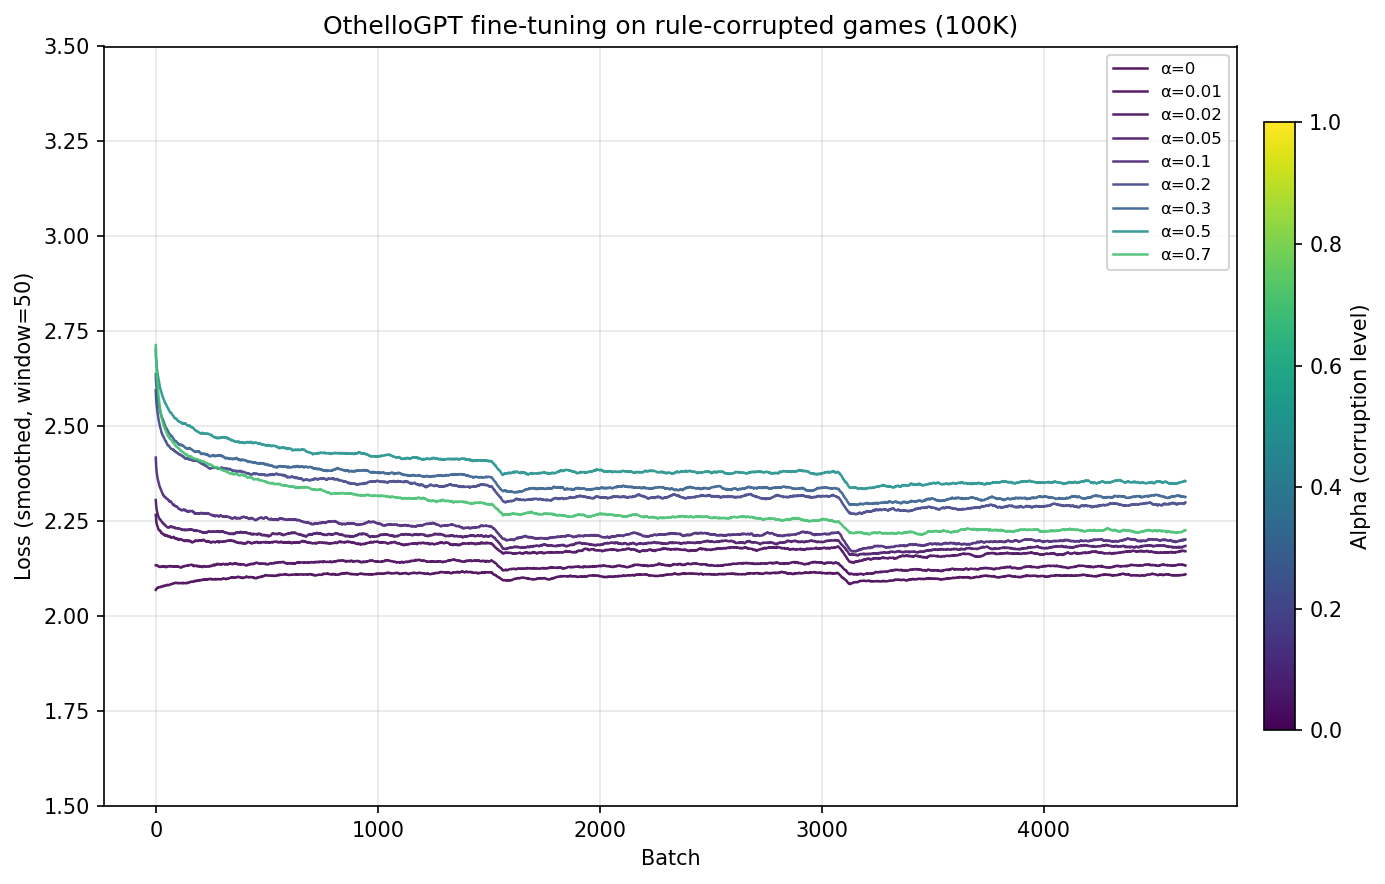
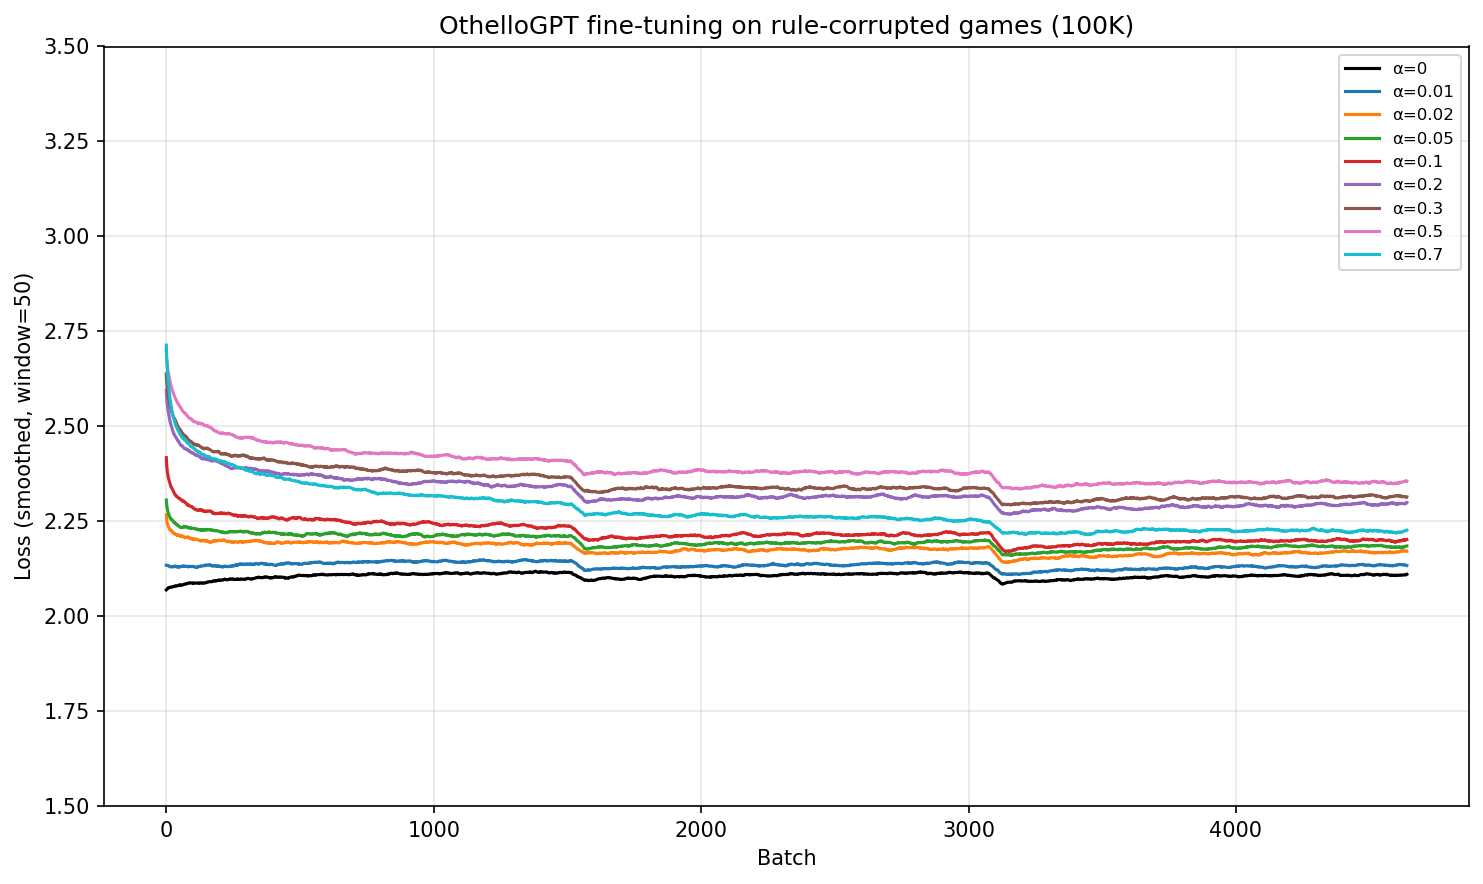
Add eval metrics: top-1 accuracy, mean rank, test-set loss
Evaluate on 10% held-out test split every 200 batches.
No more per-batch training loss extrapolation.

diff --git a/finetune_corruption.py b/finetune_corruption.py
@@ -1,5 +1,8 @@
 """
-Fine-tune OthelloGPT on corruption-generated games and record per-batch losses.
+Fine-tune OthelloGPT on corruption-generated games and record metrics.
+
+Records per-eval-step: loss, top-1 accuracy, mean rank of correct move.
+Eval is on a held-out 10% test split, run every --eval-every batches.
 
 Usage:
   python finetune_corruption.py --games-dir experiments/corruption/games/type1_alpha010 \
@@ -25,6 +28,50 @@ from mingpt.model import GPT, GPTConfig
 from mingpt.dataset import CharDataset
 
 
+@torch.no_grad()
+def evaluate(model, loader, device):
+    """Evaluate on test set. Returns loss, top-1 accuracy, mean rank."""
+    model.eval()
+    total_loss = 0.0
+    total_correct = 0
+    total_rank_sum = 0.0
+    total_tokens = 0
+
+    for x, y in loader:
+        x = x.to(device)
+        y = y.to(device)
+
+        logits, loss = model(x, y)
+        loss = loss.mean()
+
+        # logits: (B, T, vocab), y: (B, T)
+        B, T, V = logits.shape
+
+        # Flatten for metrics
+        logits_flat = logits.reshape(-1, V)  # (B*T, V)
+        y_flat = y.reshape(-1)              # (B*T,)
+
+        # Top-1 accuracy
+        preds = logits_flat.argmax(dim=-1)
+        total_correct += (preds == y_flat).sum().item()
+
+        # Mean rank: rank of correct token (1-indexed)
+        # Sort descending, find position of correct answer
+        sorted_indices = logits_flat.argsort(dim=-1, descending=True)
+        ranks = (sorted_indices == y_flat.unsqueeze(-1)).nonzero(as_tuple=True)[1] + 1
+        total_rank_sum += ranks.float().sum().item()
+
+        total_loss += loss.item() * (B * T)
+        total_tokens += B * T
+
+    model.train()
+
+    avg_loss = total_loss / total_tokens
+    accuracy = total_correct / total_tokens
+    mean_rank = total_rank_sum / total_tokens
+    return avg_loss, accuracy, mean_rank
+
+
 def main():
     parser = argparse.ArgumentParser()
     parser.add_argument("--games-dir", type=str, required=True)
@@ -34,6 +81,7 @@ def main():
     parser.add_argument("--epochs", type=int, default=3)
     parser.add_argument("--batch-size", type=int, default=64)
     parser.add_argument("--lr", type=float, default=3e-4)
+    parser.add_argument("--eval-every", type=int, default=200)
     parser.add_argument("--save-ckpt", action="store_true")
     args = parser.parse_args()
 
@@ -53,8 +101,16 @@ def main():
     games = [g for g in games if len(g) >= 5]
     print(f"After filtering: {len(games)} games with >= 5 moves")
 
-    # Create dataset
-    train_dataset = CharDataset(games)
+    # 90/10 train/test split
+    n_test = len(games) // 10
+    n_train = len(games) - n_test
+    train_games = games[:n_train]
+    test_games = games[n_train:]
+    print(f"Train: {len(train_games)}, Test: {len(test_games)}")
+
+    # Create datasets
+    train_dataset = CharDataset(train_games)
+    test_dataset = CharDataset(test_games)
     print(f"Vocab size: {train_dataset.vocab_size}, Block size: {train_dataset.block_size}")
 
     # Build model
@@ -80,24 +136,39 @@ def main():
         )
     )
 
-    # DataLoader
-    loader = DataLoader(
+    # DataLoaders
+    train_loader = DataLoader(
         train_dataset,
         shuffle=True,
         pin_memory=True,
         batch_size=args.batch_size,
         num_workers=4,
     )
+    test_loader = DataLoader(
+        test_dataset,
+        shuffle=False,
+        pin_memory=True,
+        batch_size=args.batch_size,
+        num_workers=4,
+    )
 
-    # Training loop — record per-batch losses
-    all_losses = []
+    # Eval before any training
+    print("Evaluating before training...", flush=True)
+    eval_loss, eval_acc, eval_rank = evaluate(model, test_loader, device)
+    print(f"  Initial: loss={eval_loss:.4f}, acc={eval_acc:.4f}, mean_rank={eval_rank:.2f}")
+
+    eval_steps = [0]
+    eval_losses = [eval_loss]
+    eval_accs = [eval_acc]
+    eval_ranks = [eval_rank]
+
+    # Training loop
     batch_count = 0
     t0 = time.time()
 
     for epoch in range(args.epochs):
         model.train()
-        epoch_losses = []
-        for it, (x, y) in enumerate(loader):
+        for it, (x, y) in enumerate(train_loader):
             x = x.to(device)
             y = y.to(device)
 
@@ -109,37 +180,54 @@ def main():
             torch.nn.utils.clip_grad_norm_(model.parameters(), 1.0)
             optimizer.step()
 
-            loss_val = loss.item()
-            epoch_losses.append(loss_val)
-            all_losses.append(loss_val)
             batch_count += 1
 
-            if it % 500 == 0:
-                elapsed = time.time() - t0
-                print(f"  Epoch {epoch+1}/{args.epochs}, batch {it}/{len(loader)}, "
-                      f"loss={loss_val:.4f}, elapsed={elapsed:.0f}s")
+            if batch_count % args.eval_every == 0:
+                eval_loss, eval_acc, eval_rank = evaluate(model, test_loader, device)
+                eval_steps.append(batch_count)
+                eval_losses.append(eval_loss)
+                eval_accs.append(eval_acc)
+                eval_ranks.append(eval_rank)
 
-        mean_loss = np.mean(epoch_losses)
-        print(f"Epoch {epoch+1}: mean_loss={mean_loss:.4f} ({len(epoch_losses)} batches)")
+                elapsed = time.time() - t0
+                print(f"  Epoch {epoch+1}, batch {it+1}/{len(train_loader)}, "
+                      f"step={batch_count}: loss={eval_loss:.4f}, acc={eval_acc:.4f}, "
+                      f"rank={eval_rank:.2f}, elapsed={elapsed:.0f}s", flush=True)
+
+        # End-of-epoch eval
+        eval_loss, eval_acc, eval_rank = evaluate(model, test_loader, device)
+        eval_steps.append(batch_count)
+        eval_losses.append(eval_loss)
+        eval_accs.append(eval_acc)
+        eval_ranks.append(eval_rank)
+
+        elapsed = time.time() - t0
+        print(f"Epoch {epoch+1}: loss={eval_loss:.4f}, acc={eval_acc:.4f}, "
+              f"rank={eval_rank:.2f} ({batch_count} batches, {elapsed:.0f}s)")
 
     elapsed = time.time() - t0
     print(f"\nDone: {batch_count} total batches in {elapsed:.0f}s")
-    print(f"Final loss: {np.mean(all_losses[-100:]):.4f} (last 100 batches)")
+    print(f"Final: loss={eval_losses[-1]:.4f}, acc={eval_accs[-1]:.4f}, rank={eval_ranks[-1]:.2f}")
 
-    # Save losses
-    loss_path = os.path.join(args.output_dir, f"{args.label}.json")
-    with open(loss_path, 'w') as f:
+    # Save results
+    out_path = os.path.join(args.output_dir, f"{args.label}.json")
+    with open(out_path, 'w') as f:
         json.dump({
             'label': args.label,
-            'losses': all_losses,
+            'eval_steps': eval_steps,
+            'eval_losses': eval_losses,
+            'eval_accs': eval_accs,
+            'eval_ranks': eval_ranks,
             'epochs': args.epochs,
             'batch_size': args.batch_size,
             'lr': args.lr,
-            'num_games': len(games),
+            'eval_every': args.eval_every,
+            'num_train': len(train_games),
+            'num_test': len(test_games),
             'total_batches': batch_count,
             'elapsed_seconds': elapsed,
         }, f)
-    print(f"Saved losses to {loss_path}")
+    print(f"Saved results to {out_path}")
 
     # Optionally save checkpoint
     if args.save_ckpt:
